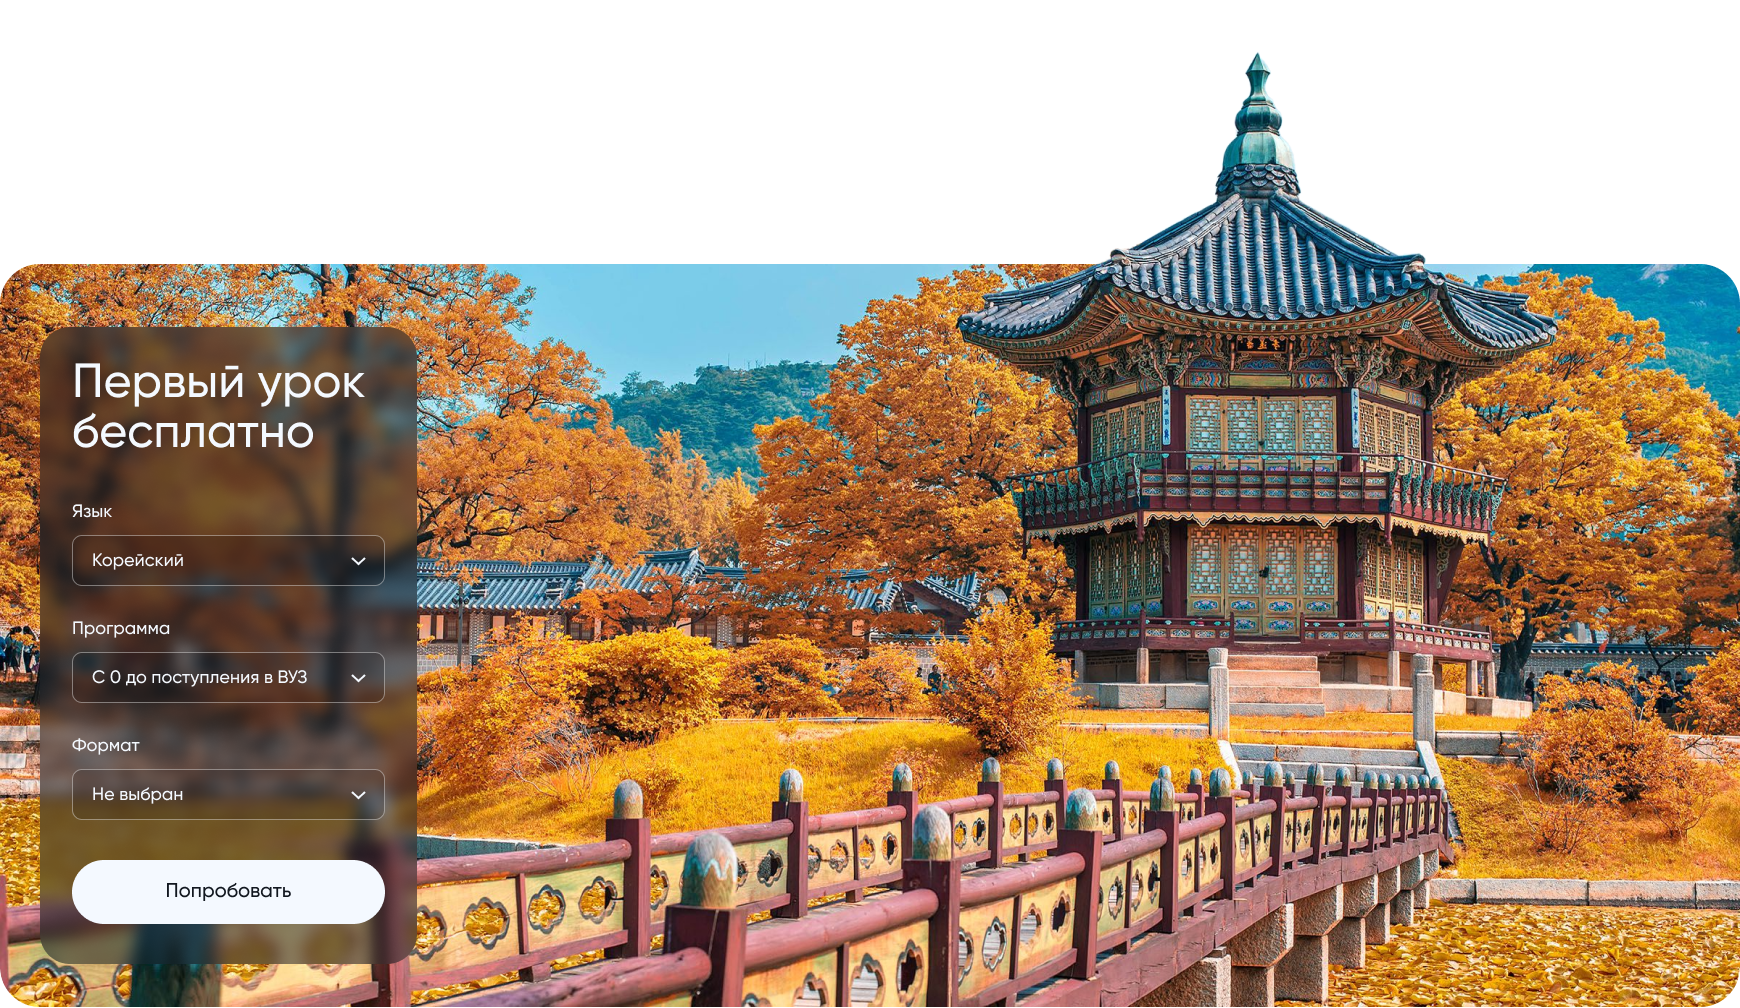
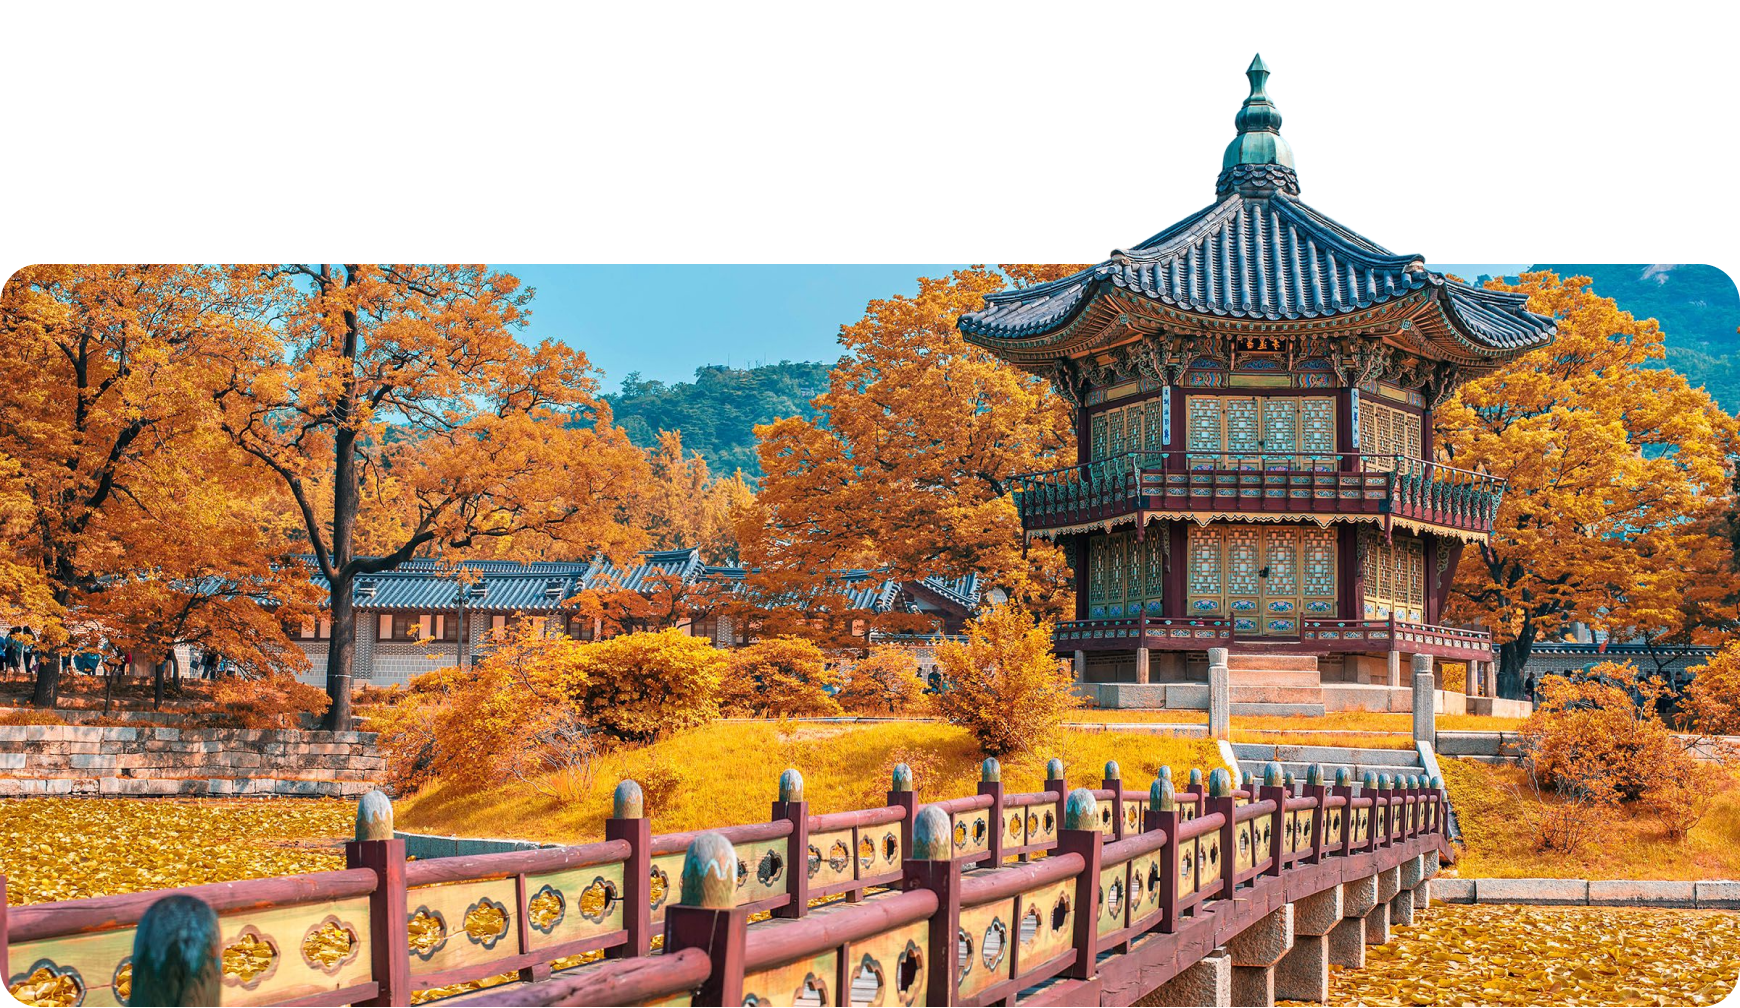
fix block2 image

Changed region(s): [[0.0, 0.3075, 0.2483, 0.9534]]

diff --git a/src/views/Main.vue b/src/views/Main.vue
@@ -5,16 +5,22 @@
   </Page>
   <Page
       :custom-style="{
+        maxWidth: '1740px',
+        width: '100%',
         position: 'absolute',
-        top: `${windowSizeForMobile > 550 ? '-725.8px' : '-40.8px'}`,
-        left: '90px',
+        top: `${windowSizeForMobile > 800 ? windowSizeForMobile < 1000 ? '-456.8px' : '-725.8px' : '-112.8px'}`,
+        left: `${windowSizeForMobile > 800 ? '90px' : '10px'}`,
       }"
       variant="dark"
       center-block
   >
-    <template #center>
-      <img v-if="windowSizeForMobile > 1700" src="@/assets/images/block2/korea.png" alt="korea">
+    <template v-if="windowSizeForMobile > 800" #center>
+      <SelectLanguage/>
     </template>
+    <template v-if="windowSizeForMobile < 800" #center>
+      <SelectLanguageMobile/>
+    </template>
+    <img v-if="windowSizeForMobile < 1000" src="@/assets/images/block2/form-mobile.svg" alt="form" style="margin-top: 102px">
     <Block2/>
   </Page>
   <Page
@@ -96,10 +102,14 @@ import Block5 from '@/components/blocks/Block5.vue';
 import Hieroglyph3 from '@/assets/icons/hieroglyphics/hieroglyph3/Hieroglyph3.vue';
 import Block6 from '@/components/blocks/Block6.vue';
 import Block7 from '@/components/blocks/Block7.vue';
+import SelectLanguage from '@/components/SelectLanguage.vue';
+import SelectLanguageMobile from '@/components/SelectLanguageMobile.vue';
 
 export default {
   name: 'Main',
   components: {
+    SelectLanguageMobile,
+    SelectLanguage,
     Block7,
     Block6,
     Hieroglyph3,

diff --git a/src/components/SelectLanguage.vue b/src/components/SelectLanguage.vue
@@ -1,0 +1,51 @@
+<template>
+  <div v-if="windowSizeForMobile > 1000" class="container">
+    <img src="@/assets/images/block2/form.png" alt="form">
+  </div>
+  <div v-else class="container-middle">
+  </div>
+</template>
+
+<script>
+import VButton from '@/components/VButton.vue';
+
+export default {
+  name: 'SelectLanguage',
+  components: {VButton},
+  data() {
+    return {
+      windowSizeForMobile: document.documentElement.clientWidth,
+    };
+  },
+  mounted() {
+    window.addEventListener("resize", this.isMobileHandler);
+    this.isMobileHandler();
+  },
+  destroyed() {
+    window.removeEventListener("resize", this.isMobileHandler);
+  },
+  methods: {
+    isMobileHandler() {
+      this.windowSizeForMobile = document.documentElement.clientWidth;
+    }
+  }
+};
+</script>
+
+<style scoped lang="scss">
+.container {
+  width: 1740px;
+  height: 1008px;
+  padding: 327px 40px 40px 40px;
+  border-radius: 40px;
+  background: url("@/assets/images/block2/korea.png") no-repeat center 100%;
+}
+
+.container-middle {
+  width: 999px;
+  height: 549px;
+  padding: 327px 40px 40px 40px;
+  border-radius: 40px;
+  background: url("@/assets/images/block2/korea-middle.png") no-repeat center 100%;
+}
+</style>

diff --git a/src/components/SelectLanguageMobile.vue b/src/components/SelectLanguageMobile.vue
@@ -1,0 +1,18 @@
+<template>
+  <div class="container"/>
+</template>
+
+<script>
+export default {
+  name: 'SelectLanguageMobile'
+};
+</script>
+
+<style scoped lang="scss">
+.container {
+  width: 335px;
+  height: 184px;
+  border-radius: 10px;
+  background: url("@/assets/images/block2/korea-mobile.png") no-repeat center 100%;
+}
+</style>

diff --git a/src/assets/styles/fonts.css b/src/assets/styles/fonts.css
@@ -124,4 +124,18 @@
   }
 }
 
+.form-title {
+  font-family: "Gilroy", sans-serif;
+  font-size: 48px;
+  font-weight: 500;
+  line-height: 50px;
+  letter-spacing: 0;
+}
+@media (max-width: 800px) {
+  .form-title {
+    font-size: 32px;
+    line-height: 34px;
+  }
+}
+
 /*# sourceMappingURL=fonts.css.map */

diff --git a/src/assets/styles/fonts.scss b/src/assets/styles/fonts.scss
@@ -114,3 +114,16 @@
     line-height: 14px;
   }
 }
+
+.form-title {
+  font-family: 'Gilroy', sans-serif;
+  font-size: 48px;
+  font-weight: 500;
+  line-height: 50px;
+  letter-spacing: 0;
+  
+  @media(max-width: 800px) {
+    font-size: 32px;
+    line-height: 34px;
+  }
+}
